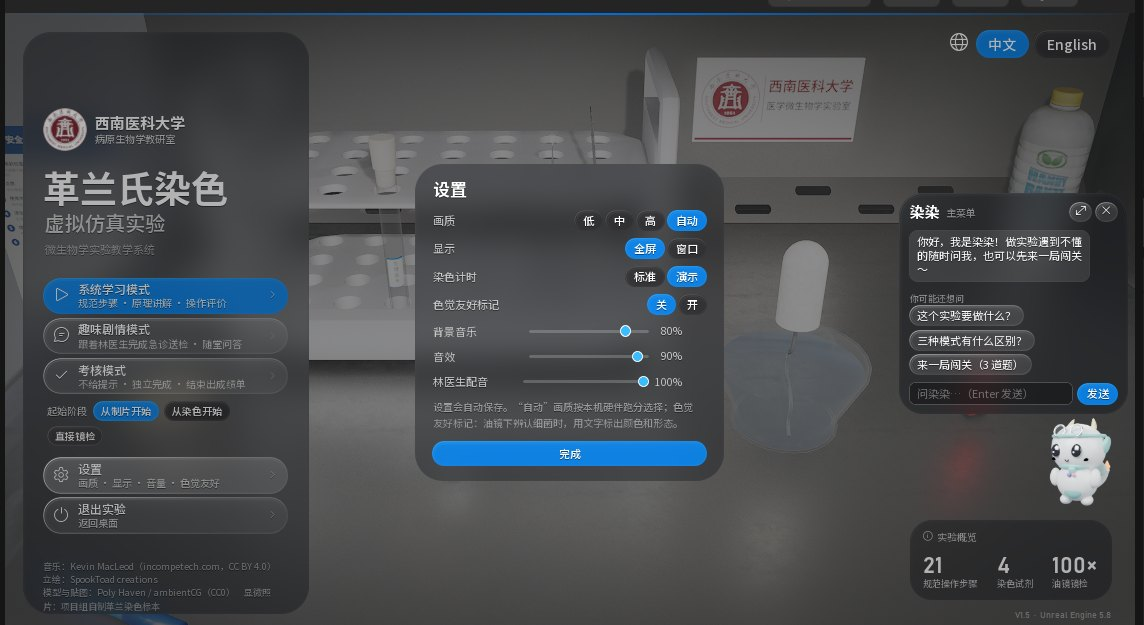
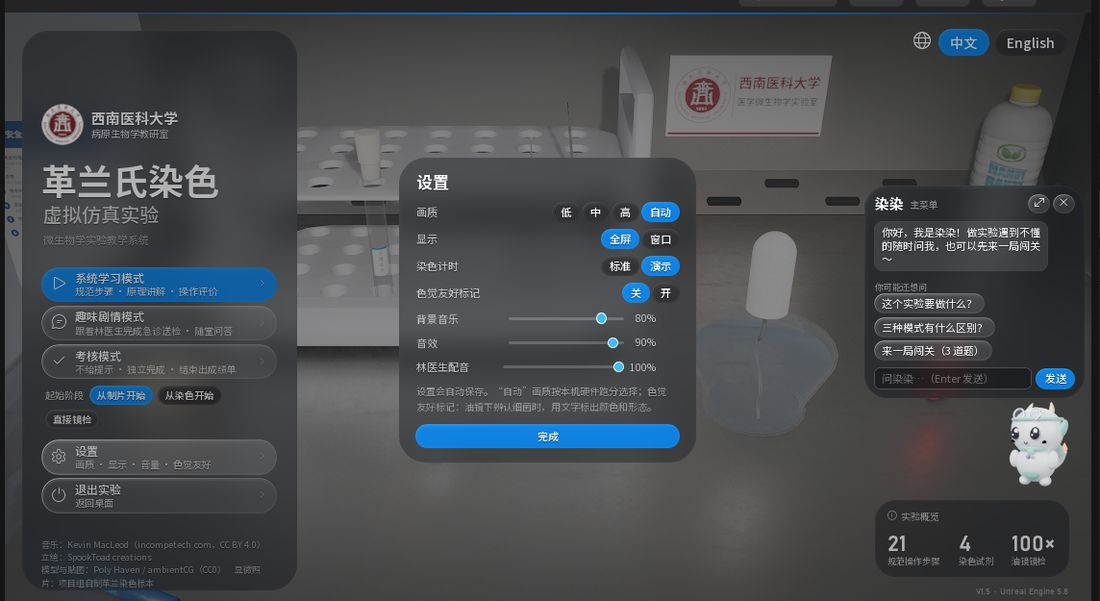
docs(copyright-ue): 图片再压一档，说明书降到 1.19MB
宽度上限 1500 → 1100px，截图质量 86 → 80（架构图 90、立绘 85）
  图片总量 1.65MB → 1.15MB

  03-...docx  1.68MB → 1.19MB
  03-...pdf   1.79MB → 1.50MB

  页面排版未受影响：20 页，逐页 34/68/86/57/33/34/33/35/34/63/35/32/35/32/48/33/45/48/48/30 行
  全部 ≥30 行，11 张图、7 张表、无附录

  1100px 宽在 13.9cm 版心里约合 201dpi，按 A4 打印仍然清晰；
  屏幕上看界面文字略软，但不影响辨认。

diff --git a/docs/copyright-ue/prep-ue-jpeg.py b/docs/copyright-ue/prep-ue-jpeg.py
@@ -20,20 +20,20 @@ OUT = SRC / "jpg"
 
 # (源文件名, 输出名, 质量)
 JOBS = [
-    ("fig-00-系统架构.png", "fig-00-系统架构.jpg", 92),
-    ("shot-01-主菜单.png", "shot-01-主菜单.jpg", 86),
-    ("shot-02-设置.png", "shot-02-设置.jpg", 86),
-    ("shot-03-计时方式.png", "shot-03-计时方式.jpg", 86),
-    ("shot-04-制片阶段.png", "shot-04-制片阶段.jpg", 86),
-    ("shot-06-40倍视野-宽幅.png", "shot-06-40倍视野-宽幅.jpg", 86),
-    ("shot-07-100倍视野-宽幅.png", "shot-07-100倍视野-宽幅.jpg", 86),
-    ("shot-05-AI对话.png", "shot-05-AI对话.jpg", 86),
-    ("shot-08-林医生立绘.png", "shot-08-林医生立绘.jpg", 90),
-    ("shot-09-剧情对话.png", "shot-09-剧情对话.jpg", 86),
-    ("shot-10-随堂问答.png", "shot-10-随堂问答.jpg", 86),
+    ("fig-00-系统架构.png", "fig-00-系统架构.jpg", 90),
+    ("shot-01-主菜单.png", "shot-01-主菜单.jpg", 80),
+    ("shot-02-设置.png", "shot-02-设置.jpg", 80),
+    ("shot-03-计时方式.png", "shot-03-计时方式.jpg", 80),
+    ("shot-04-制片阶段.png", "shot-04-制片阶段.jpg", 80),
+    ("shot-06-40倍视野-宽幅.png", "shot-06-40倍视野-宽幅.jpg", 80),
+    ("shot-07-100倍视野-宽幅.png", "shot-07-100倍视野-宽幅.jpg", 80),
+    ("shot-05-AI对话.png", "shot-05-AI对话.jpg", 80),
+    ("shot-08-林医生立绘.png", "shot-08-林医生立绘.jpg", 85),
+    ("shot-09-剧情对话.png", "shot-09-剧情对话.jpg", 80),
+    ("shot-10-随堂问答.png", "shot-10-随堂问答.jpg", 80),
 ]
 
-MAX_W = 1500
+MAX_W = 1100
 
 
 def convert() -> None:
